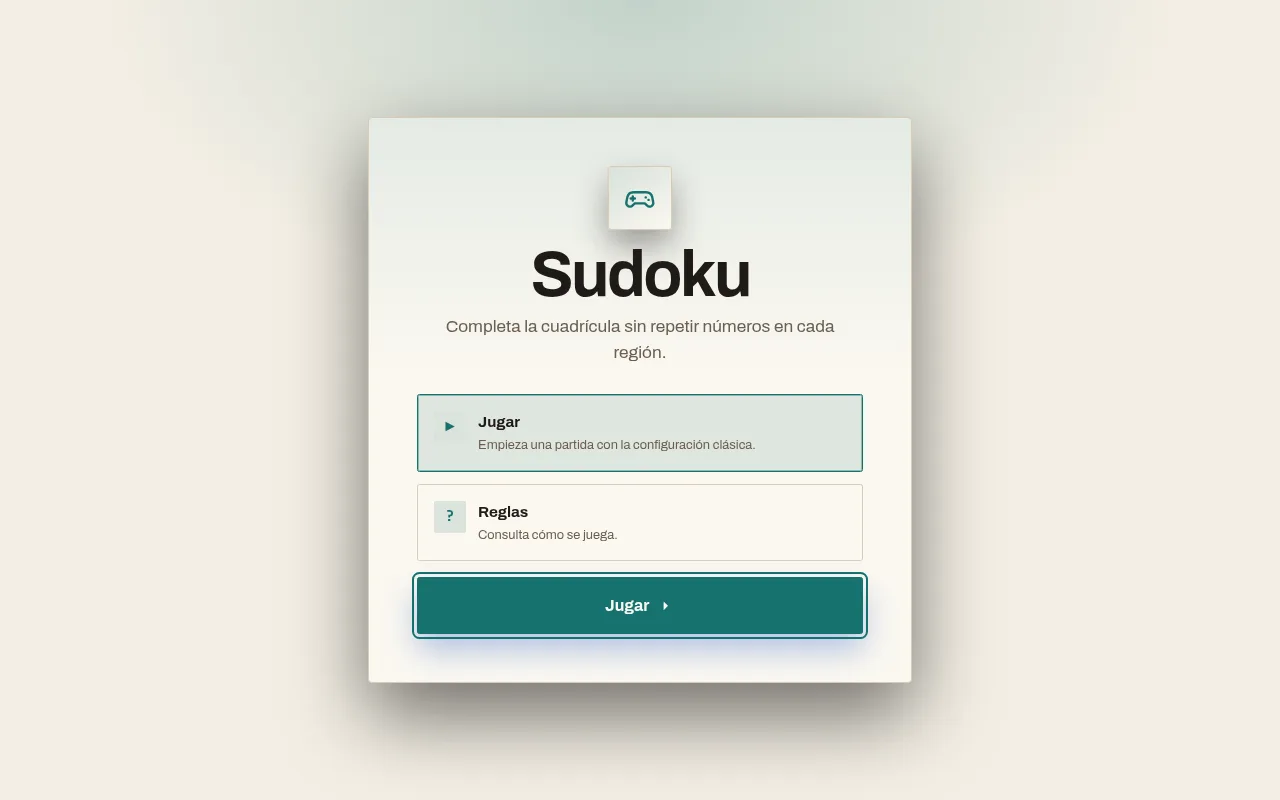
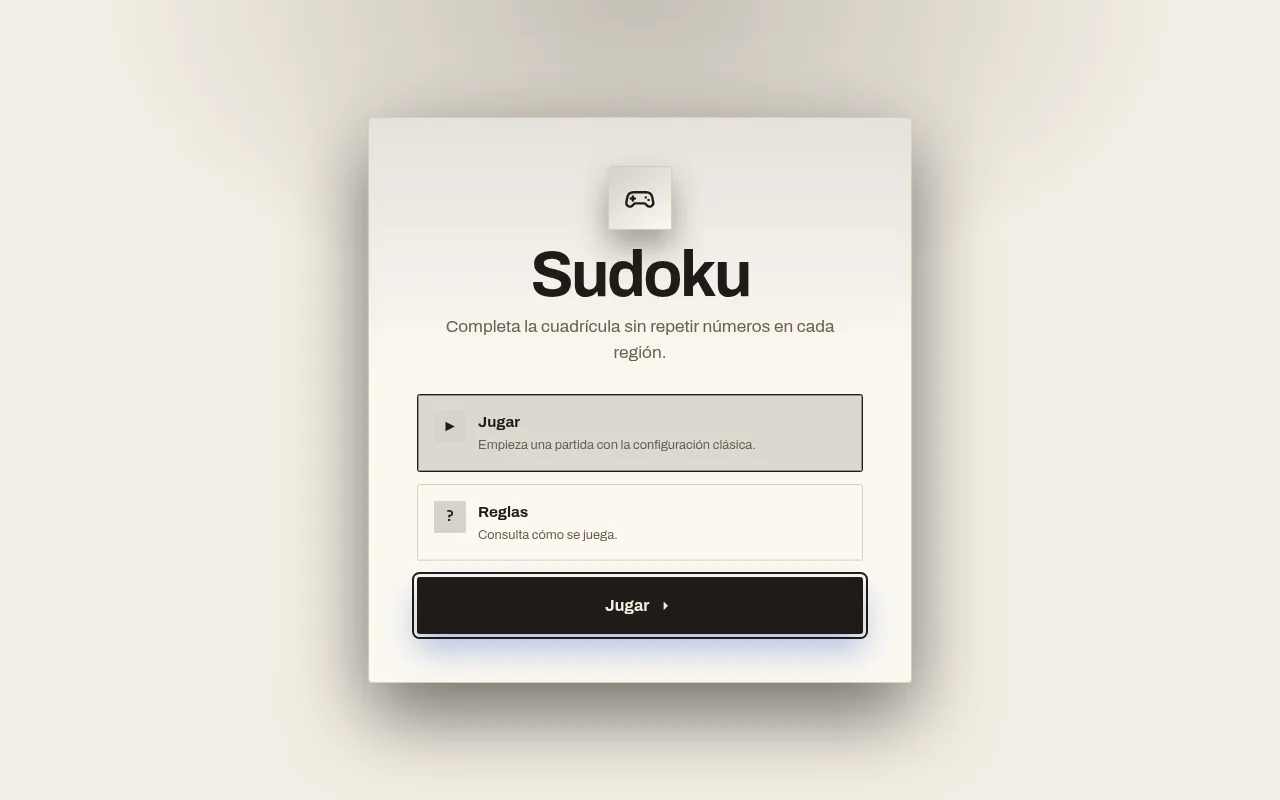
Alinea las portadas con la paleta de cada juego
Ajusta fondos, acentos y botones a los colores reales de cada tablero, centra los contenedores de partida y elimina el botón flotante de Arcade.

🤖 Generated with Codebuff

Changed region(s): [[0.3125, 0.7188, 0.6875, 0.8125], [0.6562, 0.5625, 0.6875, 0.5938], [0.3125, 0.5625, 0.3438, 0.5938]]

diff --git a/web-juegos/js/arcade-shell.js b/web-juegos/js/arcade-shell.js
@@ -18,13 +18,13 @@
             tracking: "-0.03em",
         },
         "juego-adivina-numero": {
-            bg: "#f7f2e6",
-            panel: "#fffdf7",
-            text: "#202936",
-            muted: "#5f6877",
-            line: "#e5dcc9",
-            accent: "#e0ad00",
-            accentText: "#202936",
+            bg: "oklch(97% 0.012 95)",
+            panel: "oklch(94% 0.016 95)",
+            text: "oklch(20% 0.012 250)",
+            muted: "oklch(42% 0.012 250)",
+            line: "oklch(86% 0.015 95)",
+            accent: "oklch(86% 0.18 95)",
+            accentText: "oklch(20% 0.012 250)",
             card: "#fffdf7",
             display: '"Plus Jakarta Sans", ui-sans-serif, sans-serif',
             body: '"Plus Jakarta Sans", ui-sans-serif, sans-serif',
@@ -66,14 +66,14 @@
             tracking: "-0.03em",
         },
         "juego-patches": {
-            bg: "#f7f4ec",
-            panel: "#fffdf8",
-            text: "#201d18",
-            muted: "#6f675c",
-            line: "#ded6c7",
-            accent: "#d64426",
-            accentText: "#fffdf8",
-            card: "#fffdf8",
+            bg: "oklch(97% 0.006 90)",
+            panel: "oklch(93% 0.007 88)",
+            text: "oklch(19% 0.008 70)",
+            muted: "oklch(48% 0.008 70)",
+            line: "oklch(82% 0.006 80)",
+            accent: "oklch(51% 0.2 27)",
+            accentText: "oklch(97% 0.006 90)",
+            card: "oklch(93% 0.007 88)",
             display: '"Jost", ui-sans-serif, sans-serif',
             body: '"Archivo", ui-sans-serif, sans-serif',
             layout: "stack",
@@ -83,13 +83,13 @@
         },
         "juego-queens": {
             bg: "#f4ecd8",
-            panel: "#fbf7ea",
+            panel: "#e9dec4",
             text: "#241c16",
             muted: "#6b5c4c",
-            line: "#dcc9a4",
-            accent: "#a3281a",
-            accentText: "#fbf7ea",
-            card: "#fbf7ea",
+            line: "#c9b998",
+            accent: "#b8371c",
+            accentText: "#f4ecd8",
+            card: "#e9dec4",
             display: '"Fraunces", Georgia, serif',
             body: '"Archivo", system-ui, sans-serif',
             layout: "row",
@@ -119,8 +119,8 @@
             text: "#201b17",
             muted: "#6b5e4f",
             line: "#d8cbb8",
-            accent: "#16726f",
-            accentText: "#fbf8f1",
+            accent: "#201b17",
+            accentText: "#f3eee4",
             card: "#fbf8f1",
             display: '"Fraunces", Georgia, serif',
             body: '"Archivo", system-ui, sans-serif',
@@ -135,8 +135,8 @@
             text: "#201b17",
             muted: "#6b5e4f",
             line: "#d8cbb8",
-            accent: "#16726f",
-            accentText: "#fbf8f1",
+            accent: "#201b17",
+            accentText: "#f3eee4",
             card: "#fbf8f1",
             display: '"Archivo", system-ui, sans-serif',
             body: '"Archivo", system-ui, sans-serif',
@@ -146,14 +146,14 @@
             tracking: "-0.04em",
         },
         "juego-tango": {
-            bg: "#f6f9ff",
-            panel: "#ffffff",
-            text: "#26355c",
-            muted: "#5d6b8c",
-            line: "#dbe4f5",
-            accent: "#4f6bd8",
-            accentText: "#ffffff",
-            card: "#ffffff",
+            bg: "oklch(98.4% 0.006 245)",
+            panel: "oklch(95.8% 0.014 245)",
+            text: "oklch(31% 0.085 264)",
+            muted: "oklch(56% 0.04 258)",
+            line: "oklch(88% 0.025 248)",
+            accent: "oklch(87% 0.11 84)",
+            accentText: "oklch(31% 0.085 264)",
+            card: "oklch(95.8% 0.014 245)",
             display: '"IBM Plex Sans Condensed", sans-serif',
             body: '"IBM Plex Sans", sans-serif',
             layout: "row",
@@ -162,10 +162,10 @@
             tracking: "-0.03em",
         },
         "juego-wend": {
-            bg: "#f2f6ff",
+            bg: "#e7efff",
             panel: "#ffffff",
             text: "#101a3a",
-            muted: "#5c6b8d",
+            muted: "#68789b",
             line: "#c9d6ee",
             accent: "#2f5eea",
             accentText: "#ffffff",
@@ -292,7 +292,6 @@
 
     const params = new URLSearchParams(window.location.search);
     const playing = params.get("play") === "1";
-    const homeUrl = `${window.location.pathname}`;
     const playUrl = `${window.location.pathname}?play=1`;
     const storageKey = `arcade:${gameId}`;
 
@@ -348,18 +347,9 @@
         return svg;
     };
 
-    const addReturnButton = () => {
-        const link = document.createElement("a");
-        link.className = "arcade-return";
-        link.href = homeUrl;
-        link.append(createIcon(["m15 6-6 6 6 6"]), createNode("span", "", "Arcade"));
-        document.body.append(link);
-    };
-
     if (playing) {
         document.documentElement.classList.add("arcade-playing");
         document.documentElement.dataset.arcadeGame = gameId;
-        addReturnButton();
         return;
     }
 

diff --git a/web-juegos/css/arcade.css b/web-juegos/css/arcade.css
@@ -24,7 +24,6 @@
     --arcade-accent-strong: #6c9cff;
     --arcade-button-top: #5f97ff;
     --arcade-button-bottom: #3f78e8;
-    --arcade-return-text: #e8edfa;
     --arcade-white: #fff;
 }
 
@@ -369,6 +368,21 @@ html.arcade-playing footer {
     display: none;
 }
 
+html.arcade-playing body {
+    display: flex;
+    flex-direction: column;
+    align-items: center;
+}
+
+html.arcade-playing .pagina,
+html.arcade-playing .hoja,
+html.arcade-playing .app,
+html.arcade-playing body > main,
+html.arcade-playing .disposicion {
+    width: 100%;
+    margin-inline: auto;
+}
+
 html.arcade-playing .hero {
     grid-template-columns: minmax(0, 34rem);
     justify-content: center;
@@ -381,44 +395,7 @@ html.arcade-playing[data-arcade-game="juego-queens"] .puzzle__titulo {
     display: none;
 }
 
-.arcade-return {
-    position: fixed;
-    bottom: max(1rem, env(safe-area-inset-bottom));
-    left: max(1rem, env(safe-area-inset-left));
-    z-index: 2147482000;
-    display: inline-flex;
-    align-items: center;
-    gap: 0.45rem;
-    padding: 0.6rem 0.9rem;
-    border: 0.0625rem solid var(--arcade-line-3);
-    border-radius: 62.4375rem;
-    background: rgb(13 18 32 / 0.94);
-    color: var(--arcade-return-text);
-    font-family: "Inter", ui-sans-serif, system-ui, sans-serif;
-    font-size: 0.78rem;
-    font-weight: 600;
-    text-decoration: none;
-    box-shadow: 0 0.5rem 1.5rem rgb(0 0 0 / 0.35);
-    backdrop-filter: blur(0.5rem);
-}
-
-.arcade-return:hover {
-    border-color: var(--arcade-accent);
-    color: var(--arcade-white);
-}
-
-.arcade-return svg {
-    width: 0.9rem;
-    height: 0.9rem;
-    fill: none;
-    stroke: currentColor;
-    stroke-linecap: round;
-    stroke-linejoin: round;
-    stroke-width: 2;
-}
-
-.arcade-home button:focus-visible,
-.arcade-return:focus-visible {
+.arcade-home button:focus-visible {
     outline: 0.125rem solid var(--arcade-accent);
     outline-offset: 0.2rem;
 }
@@ -457,8 +434,7 @@ html.arcade-playing[data-arcade-game="juego-queens"] .puzzle__titulo {
 }
 
 @media (prefers-reduced-motion: reduce) {
-    .arcade-home *,
-    .arcade-return {
+    .arcade-home * {
         animation-duration: 0.01ms;
         transition-duration: 0.01ms;
     }
